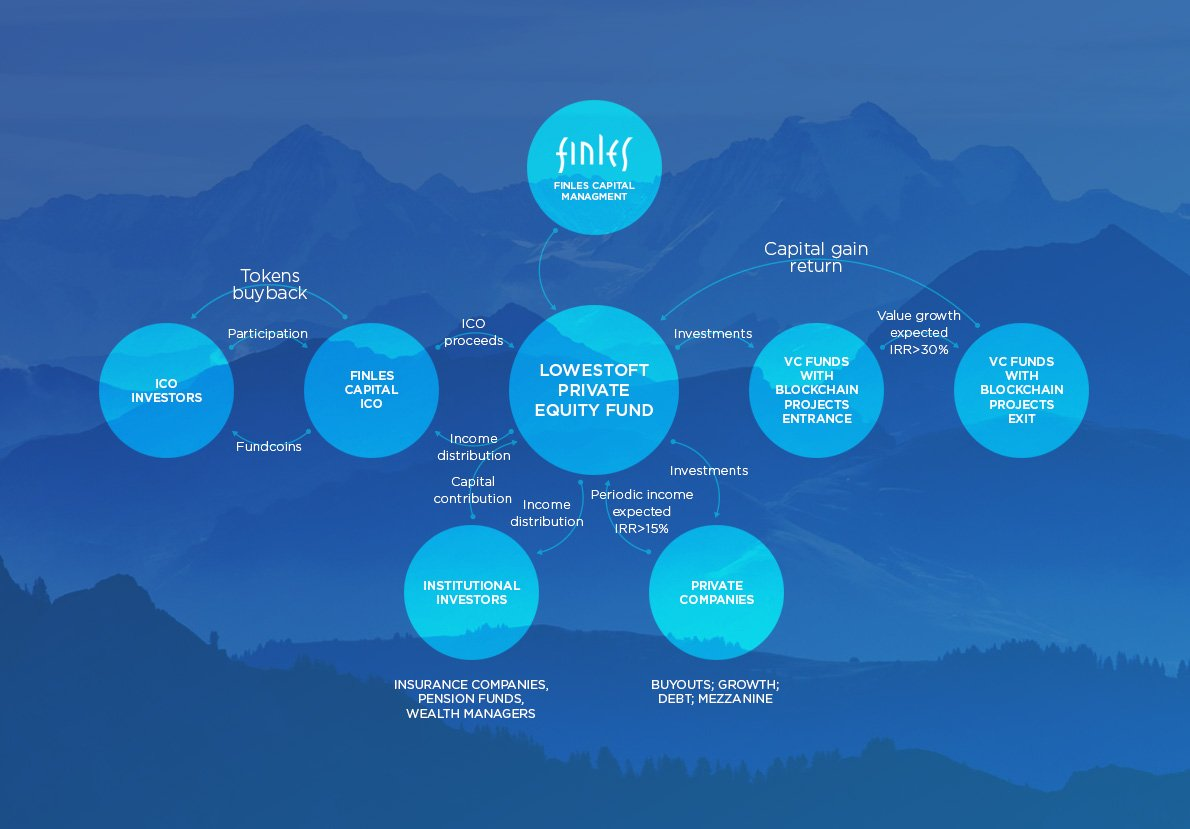
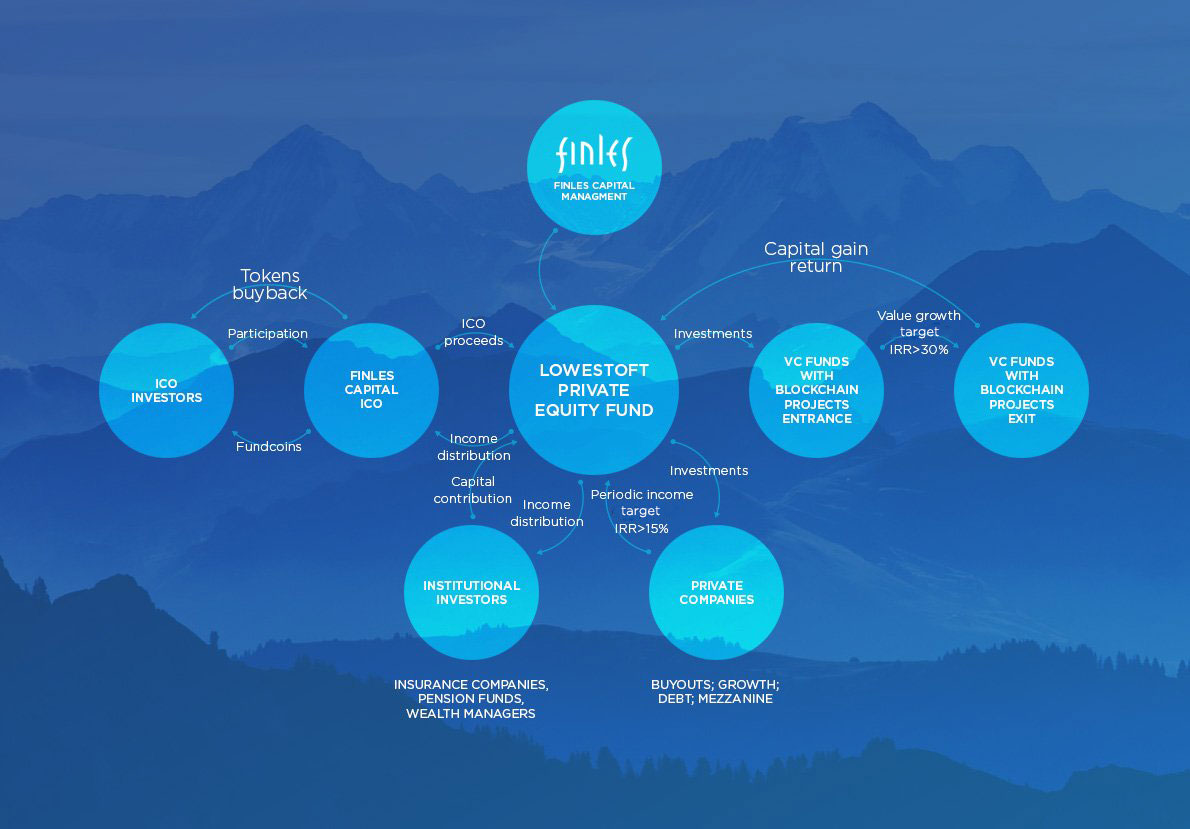
правки по лендингу от 13-09

diff --git a/index.html b/index.html
@@ -47,7 +47,7 @@
     <div id="wrapper">
         <div class="main-page">
             <header id="header">
-                <strong class="logo"></strong>
+                <!--<strong class="logo"></strong>-->
                 <div class="holder-botton">
                     <!--<a class="order simplebox" href="#preorder">pre-order now</a>-->
                     <a target="_blank"  class="order" href="https://ico.finles.capital/user/register">pre-order now</a>
@@ -147,7 +147,7 @@
                     <h3>FundCoin</h3>
                     <h3>The Original Private Equity Token</h3>
                     <p>A secure digital token guaranteed by buybacks from investments <br />in a private equity fund focused on the blockchain industry</p>
-                    <p>FundCoin is backed by investments in Lowestoft - private equity fund, <br />managed professionally by Finles Capital Management</p>
+                    <p>FundCoin proceeds are aimed to be in invested in Lowestoft - private equity fund, managed professionally by Finles Capital Management</p>
                 </div>
             </div>
             <ul class="list">
@@ -208,8 +208,8 @@
                         <div class="text-center">
                             <div class="text-inner">
                                 <div class="text-last">
-                                    Diversified private equity
-                                    <br />portfolio offers a safe harbour
+                                    Diversified private equity 
+                                    <br />portfolio offers a safer harbour
                                     <br />in a volatile crypto market
                                 </div>
                             </div>
@@ -244,7 +244,7 @@
                                 <div class="holder-box">
                                     <div class="box">
                                         <div class="in">
-                                            <strong class="title">OFFENSIVE</strong>
+                                            <strong class="title">BLOCKCHAIN</strong>
                                             <div class="top">
                                                 <strong class="main-text">The target IRR +<span>30</span>% per year</strong>
                                                 <p>The Fund employs diversified portfolio approach to
@@ -253,19 +253,17 @@
                                                     <br />via participating in initial fundraising or purchasing
                                                     <br />existing participation from the secondary market.
                                                     <br />This strategy is aimed to invest in the growing
-                                                    <br />blockchain industry. The fund will allocated up to
-                                                    <br />30% of its capital to this strategy</p>
+                                                    <br />blockchain industry. </p>
                                             </div>
                                         </div>
                                     </div>
                                     <div class="box">
                                         <div class="in">
-                                            <strong class="title">DEFENSIVE</strong>
+                                            <strong class="title">PRIVATE EQUITY</strong>
                                             <div class="top">
                                                 <strong class="main-text">The target IRR +<span>15</span>% per year</strong>
                                                 <p>
-                                                    The Fund employs conservative approach in capital
-                                                    <br />allocation to proven alternative investment strategies
+                                                        The Fund allocates capital to alternative investment strategies
                                                     <br />with track record and optimal risk/return ratio.
                                                     <br />These strategies are less correlated to the performances
                                                     <br />of the financial markets. Examples of investments:
@@ -297,9 +295,6 @@
                                             <strong class="title">CHALLENGES</strong>
                                             <div class="top min-h">
                                                 <p>Blockchain and cryptocurrency markets remain <br />highly volatile and high-risk</p>
-                                            </div>
-                                            <div class="top">
-                                                <p>Access to private equity is limited to retail investors</p>
                                             </div>
                                         </div>
                                     </div>
@@ -451,10 +446,9 @@
                             <img src="images/icon01.svg" alt="image" />
                         </span>
                         <strong class="title">UNIQUE AND EXCLUSIVE <br />OPPORTUNITY</strong>
-                        <p>The ICO provides retail and crypto investors
-                            <br />with unique and exclusive access to a high
-                            <br />performance and blockchain private equity
-                            <br />fund usually the preserve of institutional investors</p>
+                        <p>The ICO provides FundCoin holders
+                            <br />the unique and exclusive access to the blockchain
+                            <br />industry usually the preserve of institutional investors.</p>
                     </li>
                     <li>
                         <span class="figure">
@@ -480,10 +474,10 @@
                         <span class="figure">
                             <img src="images/icon04.svg" alt="image" />
                         </span>
-                        <strong class="title">Safe Harbour <br />in a Volatile Market</strong>
-                        <p>By combining early access to high growth blockchain
+                        <strong class="title">Safer Harbour <br />in a Volatile Market</strong>
+                        <p>By combining early access to high growth blockchain  
                             <br />companies with a diversified private equity portfolio
-                            <br />run by professional managers the fund offers safe
+                            <br />run by professional managers the fund offers safer
                             <br />harbour for capital growth and preservation in a highly
                             <br />volatile market</p>
                     </li>
@@ -494,10 +488,10 @@
               strategy-page start -->
         <div class="strategy-page section" id="lowestoft-fund">
             <div class="holder">
-                <h5>LOWESTOFT FUND & BALANCED STRATEGY</h5>
+                <h5>LOWESTOFT FUND & BLOCKCHAIN STRATEGY</h5>
                 <div class="holder-box">
                     <div class="box">
-                        <strong class="title">OFFENSIVE</strong>
+                        <strong class="title">BLOCKCHAIN</strong>
                         <h6>The target IRR
                             <br /><span>+30% </span>per year</h6>
                         <p>The Fund employs diversified portfolio approach to
@@ -506,16 +500,15 @@
                             via participating in initial fundraising or purchasing
                             existing participation from the secondary market.
                             This strategy is aimed to invest in the growing
-                            blockchain industry. The fund will allocated up to
-                            30% of its capital to this strategy
+                            blockchain industry.
                         </p>
                     </div>
                     <div class="box">
-                        <strong class="title">DEFENSIVE</strong>
+                        <strong class="title">PRIVATE EQUITY</strong>
                         <h6>The target IRR
                             <br /><span>+15% </span>per year</h6>
-                        <p>The Fund employs conservative approach in capital
-                            allocation to proven alternative investment strategies
+                        <p>The Fund allocates capital
+                            to proven investment strategies
                             with track record and optimal risk/return ratio.
                             These strategies are less correlated to the performances
                             of the financial markets. Examples of investments:
@@ -532,7 +525,7 @@
                 <div class="holder-text">
                     <h5>FINLES CAPITAL <br />MANAGEMENT</h5>
                     <h6>Finles is a sophisticated boutique fund management house, 
-                        <br />founded in 1977 and responsible for management of EUR 500 million on average.</h6>
+                        <br />founded in 1977 and responsible for managing EUR 500 million on average.</h6>
                     <p>Finles Manages the Finles/IEX Dutch Hedge Fund Index.</p>
                     <p>Finles is regulated (AIFMD) by the Netherlands Authority for the Financial  Markets (AFM), approved
                         UCITS Fund Investment Manager by the Authority of  Malta (MFSA) and Registered in the USA by the SEC</p>
@@ -616,8 +609,8 @@
                     <li>
                         <h6>Mitigating <br />the risks</h6>
                         <ul>
-                            <li>Well diversified portfolio approach, 500+ underlying companies</li>
-                            <li>Registered and regulated by EU financial market authorities</li>
+                            <li>Well diversified portfolio approach, with many underlying companies</li>
+                            <li>Registered and regulated</li>
                             <li>Sound governance: independent service providers: audit, depositary, and custodian</li>
                         </ul>
                     </li>
@@ -713,7 +706,7 @@
                       time-page start -->
                 <div class="team-page section" id="fund-team">
                     <div class="holder-text">
-                        <h5>fund team</h5>
+                        <h5>key staf of finles nv</h5>
                     </div>
                     <div class="gallery-team">
                         <a href="#" class="link-prev">prev</a>
@@ -729,7 +722,7 @@
                                                 </span>
                                                 <div class="holder-text">
                                                     <strong class="title">Rob van Kuijk</strong>
-                                                    <strong class="profile">CEO and CIO</strong>
+                                                    <strong class="profile">CIO and Princiapl</strong>
                                                 </div>
                                                 <div class="holder-content">
                                                     <p>Mr. Van Kuijk is responsible for Business Development 
@@ -772,7 +765,7 @@
                                                 </span>
                                                 <div class="holder-text">
                                                     <strong class="title">Hans van der Holst</strong>
-                                                    <strong class="profile">Senior Staff</strong>
+                                                    <strong class="profile">Legal Counsel</strong>
                                                 </div>
                                                 <div class="holder-content">
                                                     <p>Mr. Van der Holst was responsible for the operational 
@@ -863,7 +856,7 @@
                                                 </span>
                                                 <div class="holder-text">
                                                     <strong class="title">Dr. Bernard R. Bot</strong>
-                                                    <strong class="profile">NESB</strong>
+                                                    <strong class="profile">Board Adviser</strong>
                                                 </div>
                                                 <div class="holder-content">
                                                     <p>Before joining Finles he held various positions in the 
@@ -934,7 +927,7 @@
                                                 </span>
                                                 <div class="holder-text">
                                                     <strong class="title">Webko Wuite</strong>
-                                                    <strong class="profile">Portfolio Manager</strong>
+                                                    <strong class="profile">Portfolio Manager Private Equity</strong>
                                                 </div>
                                                 <div class="holder-content">
                                                     <p>Portfolio Manager of a number of portfolios and mandates, 
@@ -947,7 +940,7 @@
                                         </div>
                                     </div>
                                 </li>
-                                <li>
+<!--                                <li>
                                     <div class="box">
                                         <div class="in">
                                             <div class="holder">
@@ -968,7 +961,7 @@
                                             </div>
                                         </div>
                                     </div>
-                                </li>
+                                </li>-->
                                 <li>
                                     <div class="box">
                                         <div class="in">
@@ -1050,7 +1043,7 @@
                     <div class="text-center">
                         <div class="text-inner">
                             <div class="text-last">
-                                <h5>PRIVATE EQUITY NOW <br />AVAILABLE FOR EVERYONE</h5>
+                                <h5>PRIVATE EQUITY NOW <br />WITH BLOCKCHAIN INVESTMENTS</h5>
                                 <p>Invest alongside with Institutional Investors:
                                     <br />Insurance Companies, Pension Funds, Wealth Managers</p>
 
@@ -1067,7 +1060,7 @@
               contact-page start -->
         <div class="press-page partners section" id="partners">
             <div class="holder-text">
-                <h5>Partners</h5>
+                <h5>SUPPORTING ASSET MANAGEMENT COMPANIES</h5>
             </div>
             <!--			<div class="gallery-partners">
                                             <div class="gallery-holder">-->
@@ -1294,7 +1287,7 @@
         <footer class="contact-page section" id="contacts">
             <div class="holder">
                 <h6>contact us</h6>
-                <div class="box">
+<!--                <div class="box">
                     <div class="holder-block">
                         <div class="block">
                             <strong class="title">have a question?</strong>
@@ -1361,7 +1354,7 @@
                             </div>
                         </div>
                     </div>
-                </div>
+                </div>-->
                 <div class="box">
                     <strong class="title">get in touch</strong>
                     <div class="holder-list">
